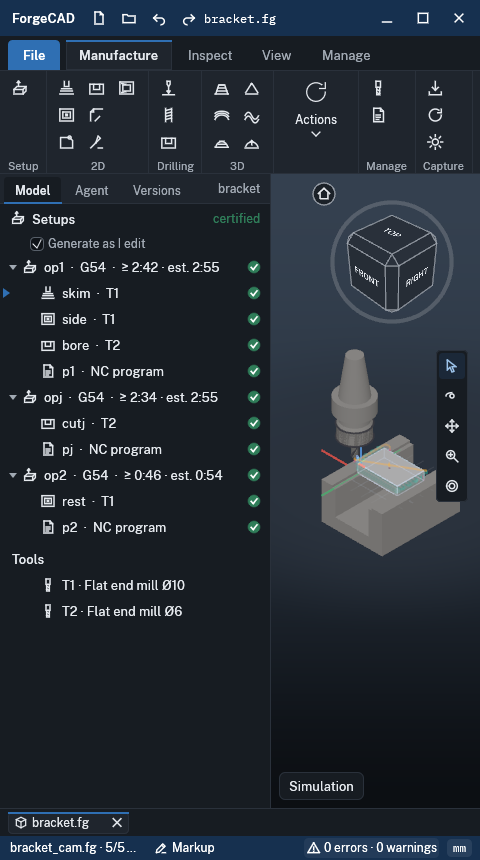
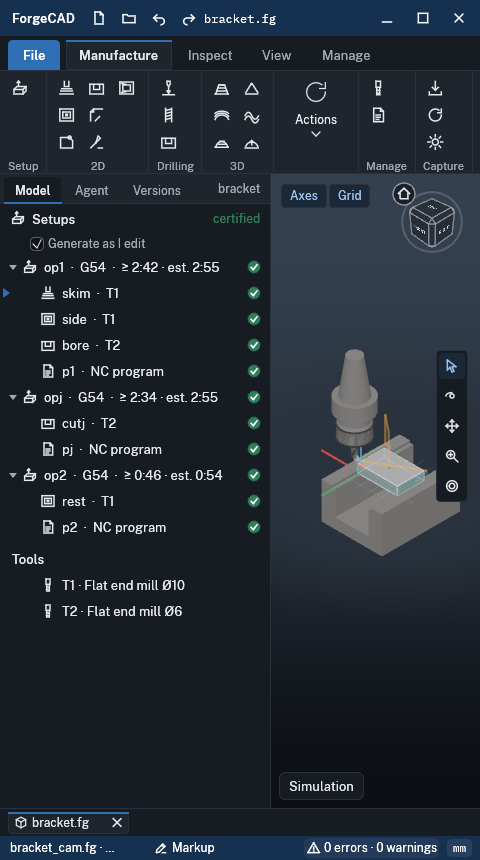
A narrow view's cube at half size; Manufacture frames the part clear of it
UX-LEAD on cam-480-view: the cube (about 100 px) and the tool strip sat
over the model. Below 320 px of view (nav::NARROW_VIEW_PX) the cube is
drawn at half size, and Manufacture's framing counts the tool strip (the
right edge) and the half cube (the top) as covered, so the part is
framed clear of both. The 480 test checks it from the framed camera
(the part's box against the strip's and the cube's places; fails
without), and asserts the narrow condition (props_alternate, under
NARROW_VIEW_PX) instead of a pixel width. research/cam/ui/cam-480-view.png
again.

Claude-Session: https://claude.ai/code/session_01WJtawySQLKzpnK7g6t2CVB

Changed region(s): [[0.5625, 0.2116, 0.9688, 0.393], [0.7812, 0.4837, 0.8125, 0.514], [0.2188, 0.9674, 0.25, 0.9977]]

diff --git a/interface/forge-render/tests/cam_ui.rs b/interface/forge-render/tests/cam_ui.rs
@@ -817,7 +817,10 @@ fn manufacture_opens_in_a_phone_wide_window() {
     for _ in 0..10 {
         h.step();
     }
-    assert!(h.gui.shell.view_rect.width() < 300.0, "a narrow view: {:?}", h.gui.shell.view_rect);
+    // a view too narrow to have the column beside it (not a pixel count: the browser's own
+    // width at 480 px is UX-LEAD's to choose)
+    assert!(h.gui.shell.props_alternate, "a narrow view: {:?}", h.gui.shell.view_rect);
+    assert!(h.gui.shell.view_rect.width() < forge_render::nav::NARROW_VIEW_PX);
     // folded, and the framing agrees: no timeline drawn, and nothing kept for it at the view's
     // bottom (UX-LEAD: the fold and the free rect must not disagree)
     let timeline = egui::LayerId::new(egui::Order::Middle, egui::Id::unique("camsim:timeline"));
@@ -851,6 +854,38 @@ fn manufacture_opens_in_a_phone_wide_window() {
     assert!(sh.place("view:column").is_some());
     assert_eq!(h.gui.shell.cam.as_ref().unwrap().col_label, "Simulation");
     assert_eq!(h.gui.shell.camsim.as_ref().map(|s| s.playing), playing, "the simulation as it was");
+    // the cube at half size, and the part framed clear of it and of the tool strip (UX-LEAD)
+    let cube = h.gui.shell.cube_place.expect("the cube");
+    assert_eq!(cube.side, 0.5 * forge_render::viewcube::WIDGET_PX * cube.scale, "half size");
+    {
+        let sh = &h.gui.shell;
+        let vr = sh.view_rect;
+        let cam = sh.cam.as_ref().unwrap().framed.expect("framed");
+        let scene = &h.gui.view.as_ref().unwrap().scene;
+        let (lo, hi) = scene.shown_box().unwrap_or_else(|| {
+            let (c, r) = scene.bounds();
+            ([c[0] - r, c[1] - r, c[2] - r], [c[0] + r, c[1] + r, c[2] + r])
+        });
+        let b = forge_render::frame::Bounds::new(lo, hi);
+        let px: Vec<egui::Pos2> = b
+            .corners()
+            .iter()
+            .filter_map(|c| cam.pixel_of(*c, vr.width() as u32, vr.height() as u32))
+            .map(|(x, y)| egui::pos2(vr.left() + x, vr.top() + y))
+            .collect();
+        let part = egui::Rect::from_points(&px);
+        let strip = ["nav:select", "nav:orbit", "nav:pan", "nav:zoom", "nav:fit"]
+            .iter()
+            .filter_map(|n| sh.place(n))
+            .reduce(|a, b| a.union(b))
+            .expect("the tool strip");
+        let cube_r = egui::Rect::from_min_size(
+            egui::pos2(vr.left() + cube.at.0 / cube.scale, vr.top() + cube.at.1 / cube.scale),
+            egui::vec2(cube.side / cube.scale, cube.side / cube.scale),
+        );
+        assert!(!part.intersects(strip), "the part {part:?} under the tool strip {strip:?}");
+        assert!(!part.intersects(cube_r), "the part {part:?} under the cube {cube_r:?}");
+    }
     shot(&mut h, "cam-480-view");
     // back to the column by its name
     tap(&mut h, "view:column");

diff --git a/interface/forge-render/src/gui_cam.rs b/interface/forge-render/src/gui_cam.rs
@@ -7,6 +7,12 @@ use super::Gui;
 use crate::origin::WorldVert;
 use crate::shell::cam::{CamWs, run};
 
+/// In a narrow view: the height the half-size cube takes at the top (its margin, half of
+/// `viewcube::WIDGET_PX`, a margin), and the width of the tool strip at the right (its 32 px, its
+/// 12 px from the edge, a margin).
+const CUBE_HALF_COVER: f32 = 8.0 + 0.5 * crate::viewcube::WIDGET_PX + 8.0;
+const STRIP_COVER: f32 = 32.0 + 12.0 + 8.0;
+
 impl Gui {
     /// Opens a machining document: the workspace, over its part (opened as the view's model).
     pub(super) fn open_cam(&mut self, path: &str, text: &str) -> bool {
@@ -331,12 +337,19 @@ impl Gui {
                 crate::frame::Bounds::new([c[0] - r, c[1] - r, c[2] - r], [c[0] + r, c[1] + r, c[2] + r])
             }
         };
+        // a narrow view: its tool strip (the right edge) and its cube (half size, the top right)
+        // cover the part where they are drawn, so it is framed clear of them (UX-LEAD)
+        let (narrow_top, narrow_right) = if vr.width() < crate::nav::NARROW_VIEW_PX {
+            (CUBE_HALF_COVER, STRIP_COVER)
+        } else {
+            (0.0, 0.0)
+        };
         let view = crate::frame::ViewRect {
             width: vr.width(),
             height: vr.height(),
             // the simulation's panel is in the properties column (outside `vr`) whenever there is
             // one, docked or not yet: only its timeline covers the view
-            covered: [0.0, 0.0, side[0], cover + side[1]],
+            covered: [0.0, narrow_top, side[0] + narrow_right, cover + side[1]],
         };
         // from the direction the view is seen from now, the subject at the standard's 70 %
         let (yaw, pitch) = (v.nav.camera.yaw.to_degrees(), v.nav.camera.pitch.to_degrees());

diff --git a/interface/forge-render/src/nav.rs b/interface/forge-render/src/nav.rs
@@ -21,6 +21,8 @@ const CLICK_SLOP: f32 = 4.0;
 /// How long a view change animates (ms).
 pub const TRANSITION_MS: f64 = 280.0;
 const CUBE_MARGIN_PX: f32 = 8.0;
+/// A view narrower than this (logical px) draws its cube at half size.
+pub const NARROW_VIEW_PX: f32 = 320.0;
 /// A wheel step of the section, as a share of the view's distance.
 const SECTION_STEP: f32 = 0.01;
 /// How long exploding or coming back together takes (ms).
@@ -253,7 +255,10 @@ impl Nav {
 
     /// Where the view cube is: the top right of the view.
     pub fn cube_place(&self) -> Place {
-        let side = viewcube::WIDGET_PX * self.scale;
+        // a narrow view (a phone-wide window): the cube at half size, so it leaves the part room
+        // (UX-LEAD: below ~320 px of view it covered the model)
+        let narrow = (self.size.0 as f32) < NARROW_VIEW_PX * self.scale;
+        let side = viewcube::WIDGET_PX * self.scale * if narrow { 0.5 } else { 1.0 };
         Place {
             at: (
                 self.size.0 as f32 - side - CUBE_MARGIN_PX * self.scale,
